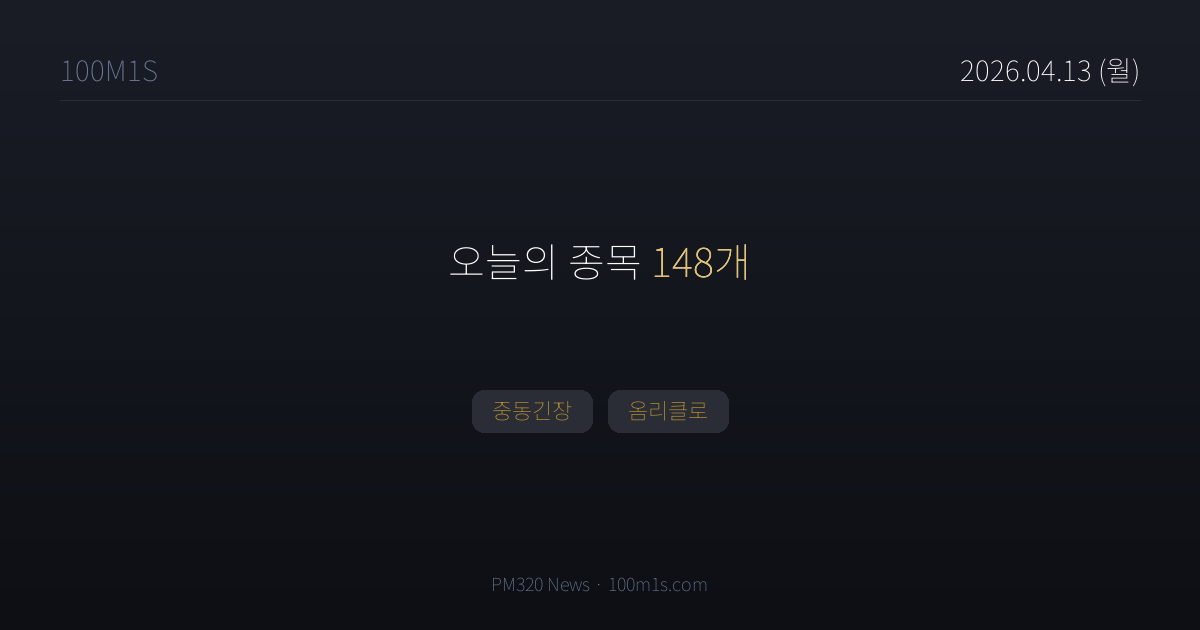
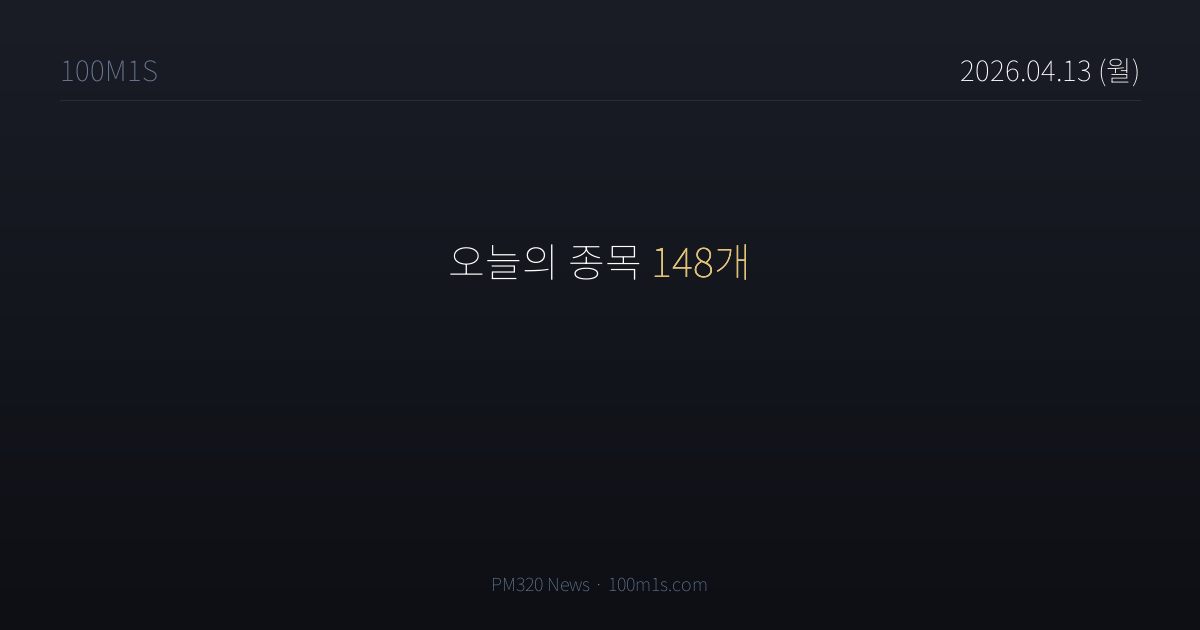
chore(news): 2026-04-13T10:48 pipeline

Changed region(s): [[0.37, 0.6032, 0.6167, 0.6937]]

diff --git a/news/2026-04-13.html b/news/2026-04-13.html
@@ -4,7 +4,7 @@
 <meta charset="UTF-8">
 <title>4월 13일 (월) 뉴스 — 100M1S</title>
 <meta property="og:title" content="4월 13일 (월) · 종목 148개">
-<meta property="og:description" content="중동긴장, 옴리클로">
+<meta property="og:description" content="뉴스 요약">
 <meta property="og:image" content="https://100m1s.com/og/2026-04-13.png">
 <meta property="og:image:width" content="1200">
 <meta property="og:image:height" content="630">
